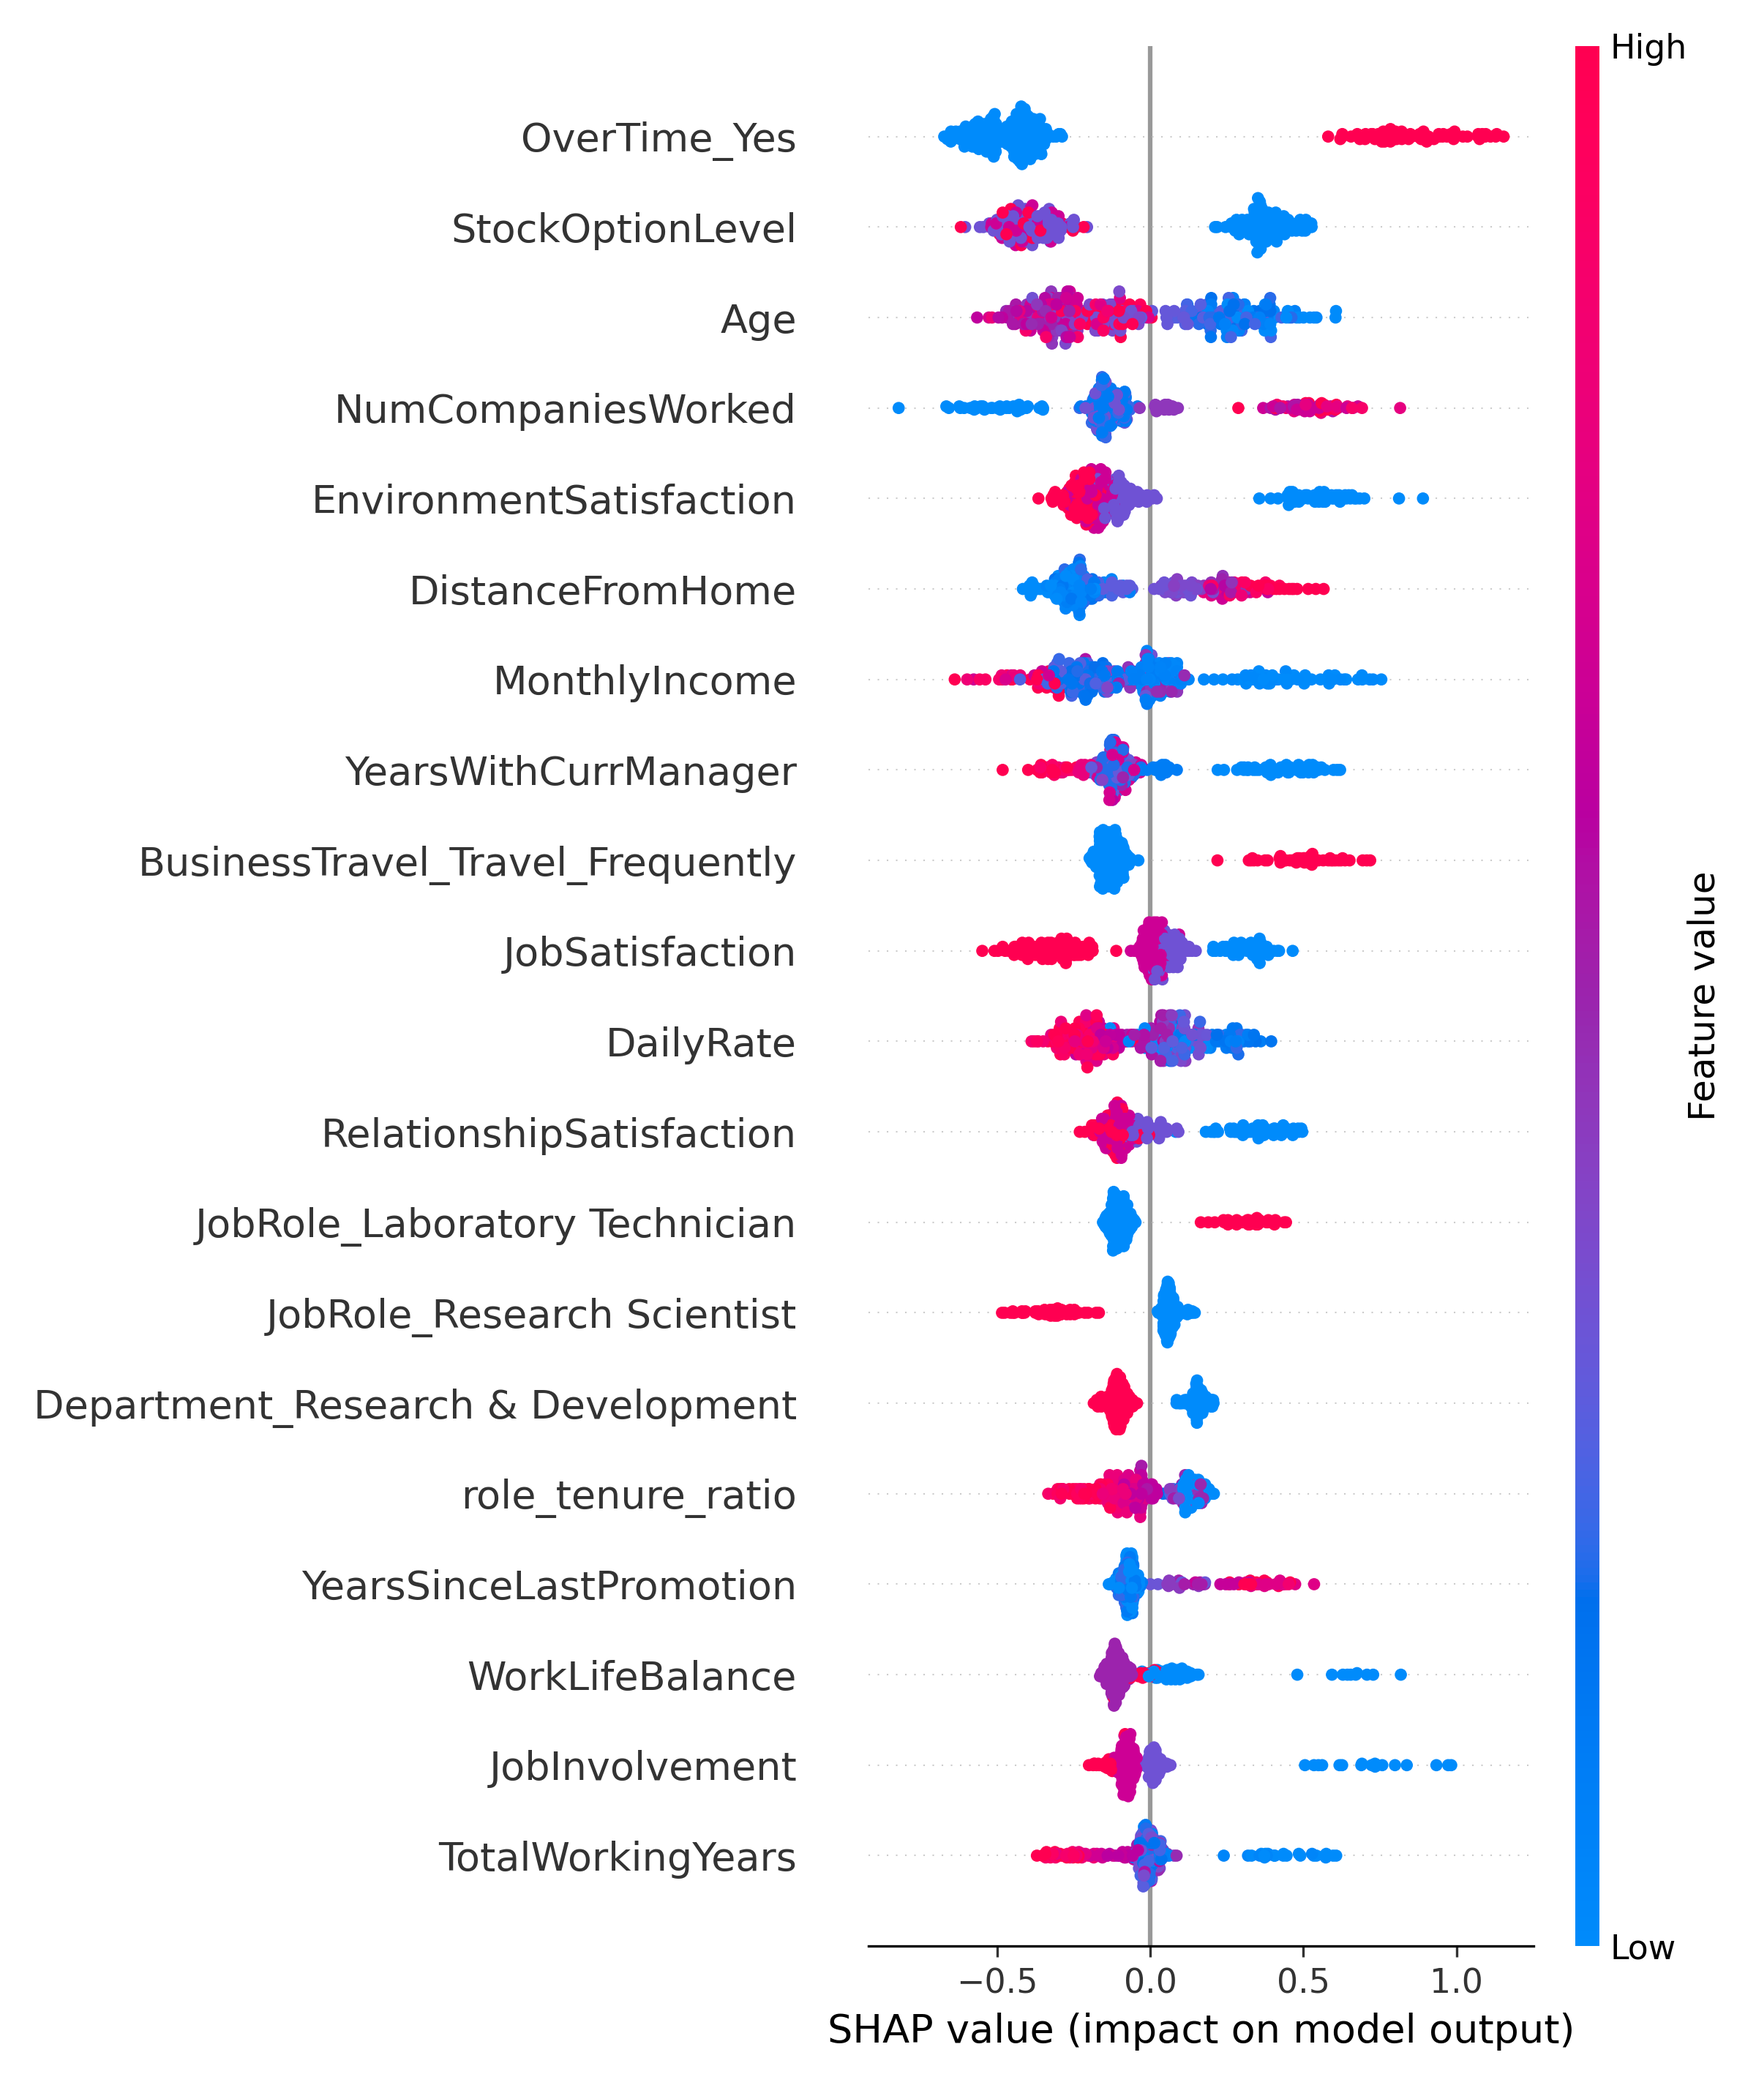
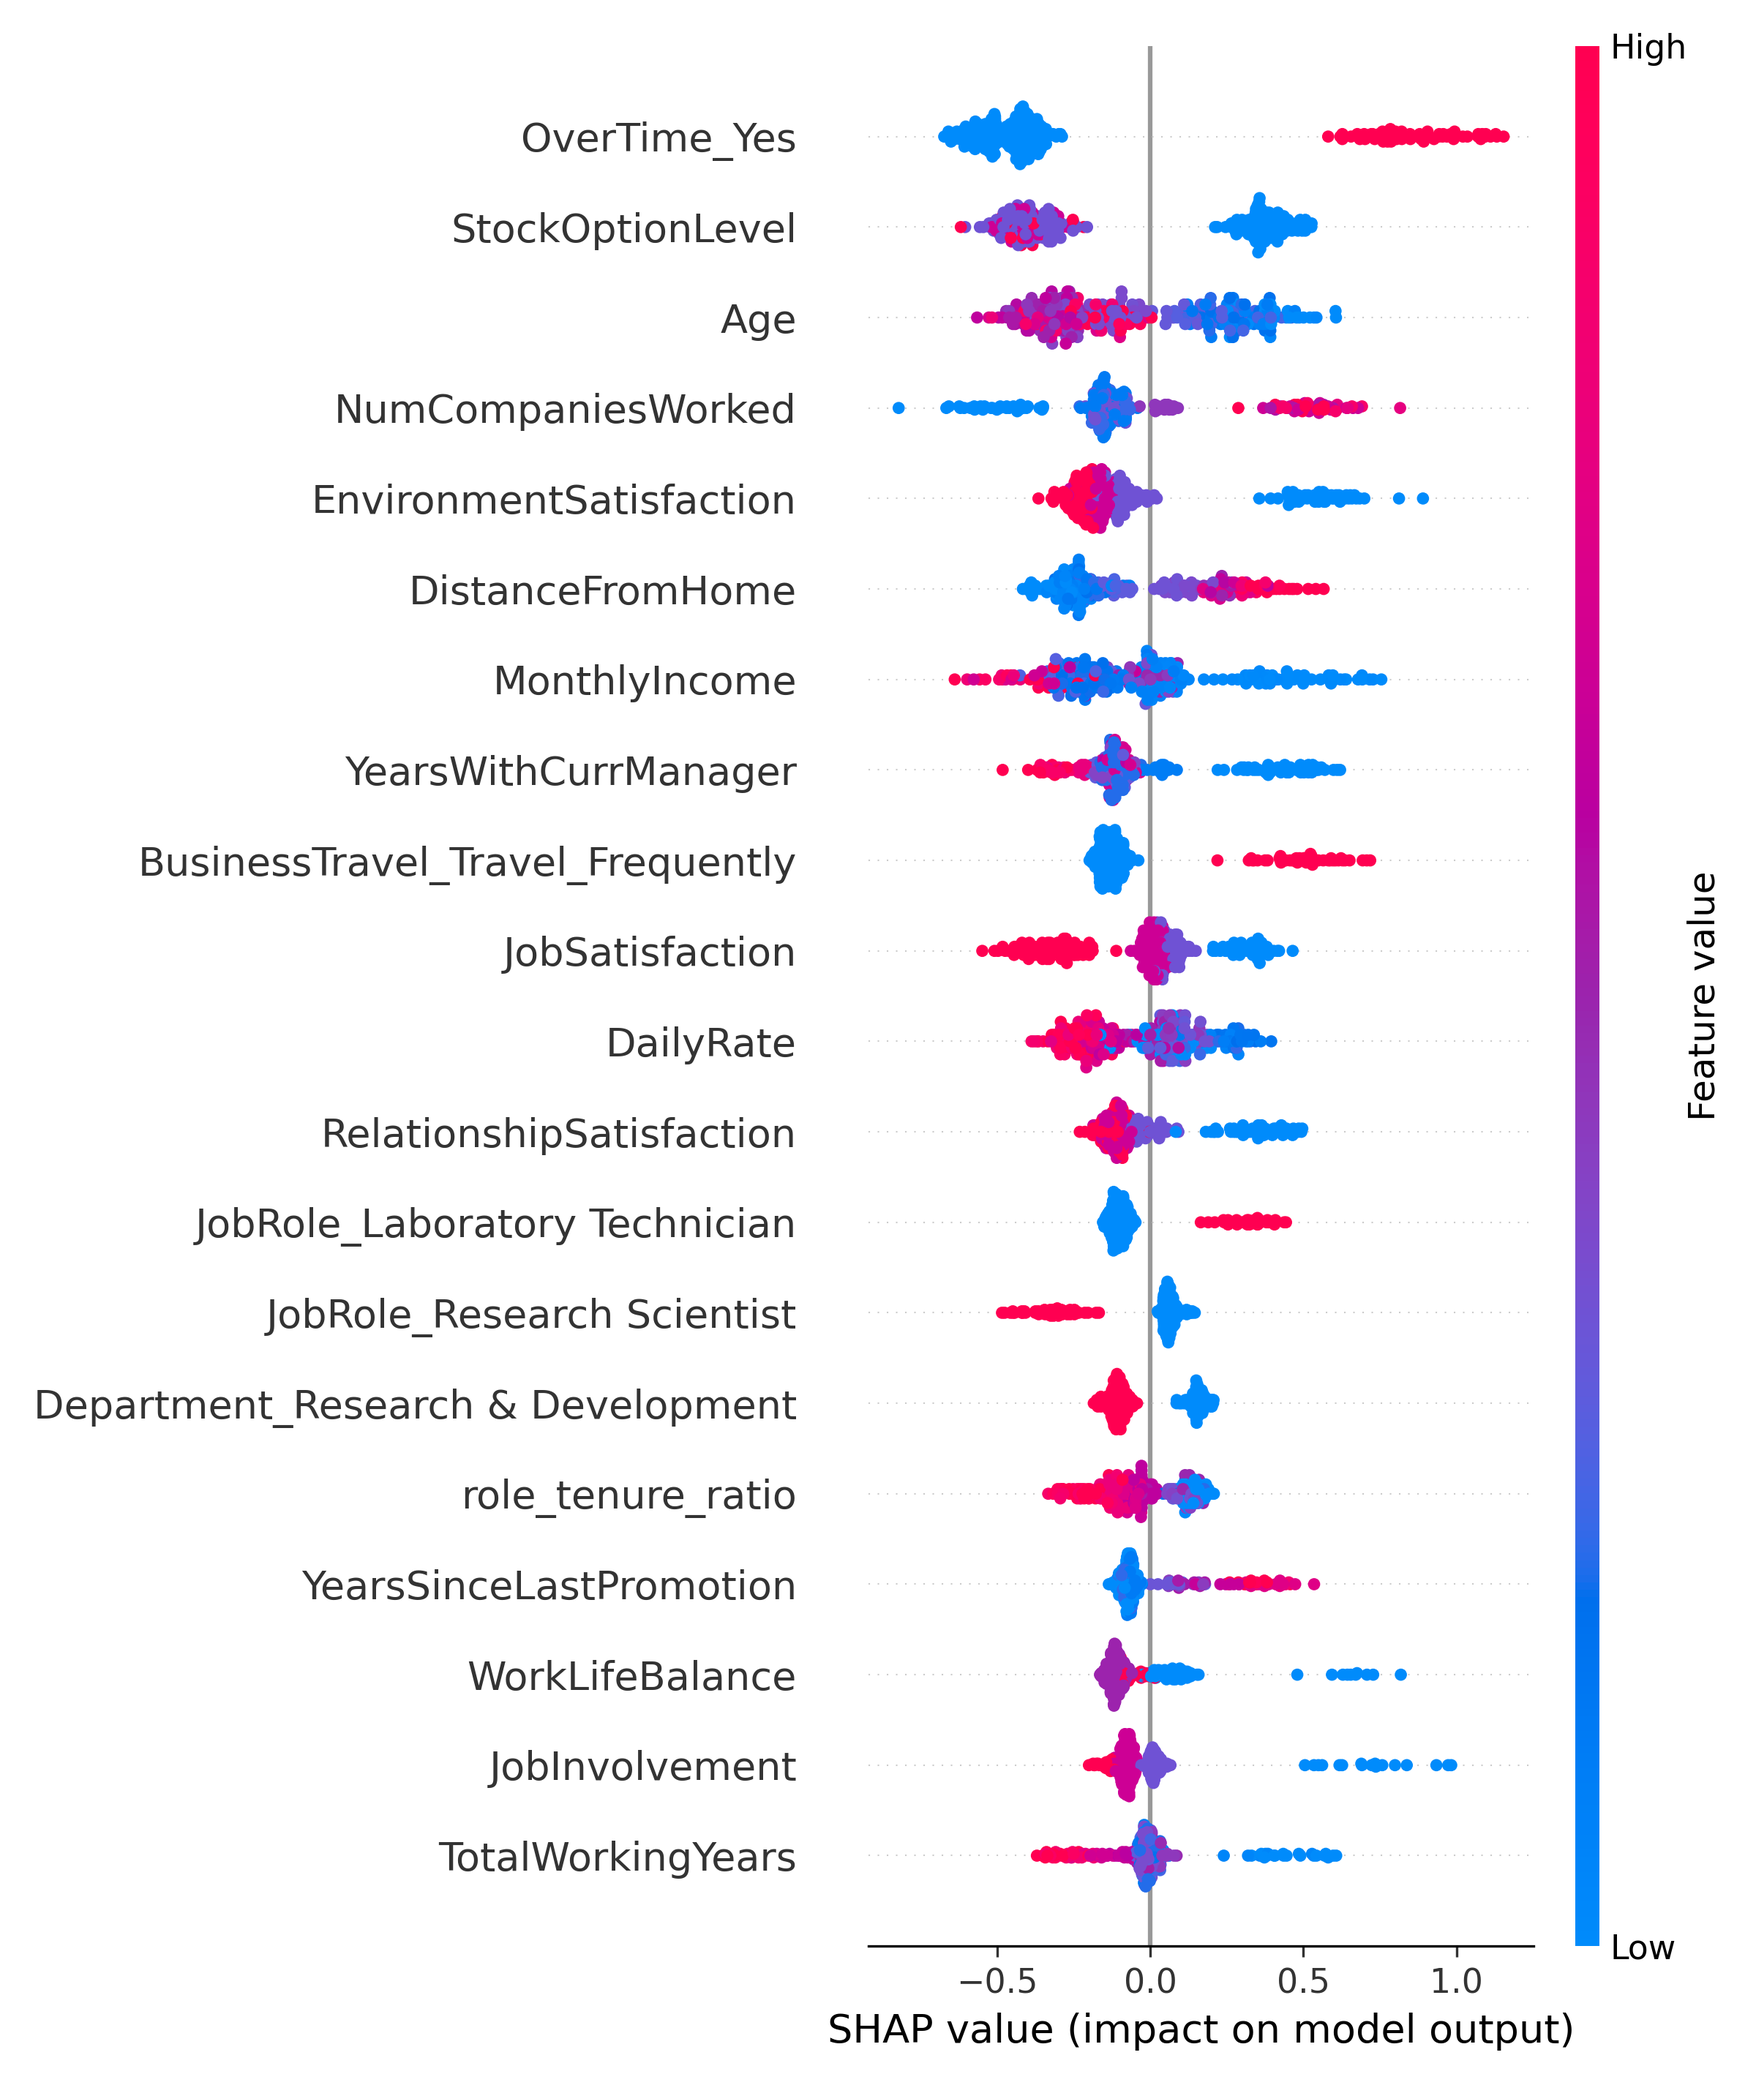
fix: resolve pickle compatibility error on Streamlit Cloud by pinning packages and serializing column metadata to JSON

diff --git a/src/train_model.py b/src/train_model.py
@@ -269,6 +269,19 @@ def main() -> None:
     }
     with open(os.path.join(MODELS_DIR, "preprocessor.pkl"), "wb") as f:
         pickle.dump(preprocessor_meta, f)
+    
+    # Save a JSON version of non-pickle metadata for robust loading
+    json_meta = {
+        "feature_names": feature_names_clean,
+        "numerical_cols": NUMERICAL_COLS,
+        "categorical_cols": CATEGORICAL_COLS,
+        "training_cols": X.columns.tolist(),
+        "tuned_threshold": xgb_threshold,
+        "baseline_threshold": lr_threshold
+    }
+    with open(os.path.join(MODELS_DIR, "preprocessor_meta.json"), "w") as f:
+        json.dump(json_meta, f, indent=4)
+        
     print("\nPreprocessor metadata and tuned threshold saved.")
 
     # Save a small sample of training data for SHAP background in the app

diff --git a/src/drift_monitor.py b/src/drift_monitor.py
@@ -25,6 +25,12 @@ def load_reference_columns() -> Tuple[List[str], List[str], List[str]]:
     Returns:
         A tuple of (numerical_columns, categorical_columns, all_training_columns).
     """
+    json_path = os.path.join(MODELS_DIR, "preprocessor_meta.json")
+    if os.path.exists(json_path):
+        with open(json_path, "r") as f:
+            meta = json.load(f)
+        return meta["numerical_cols"], meta["categorical_cols"], meta["training_cols"]
+
     if not os.path.exists(PREPROCESSOR_PATH):
         raise FileNotFoundError("Preprocessor file not found. Run train_model.py first.")
         
